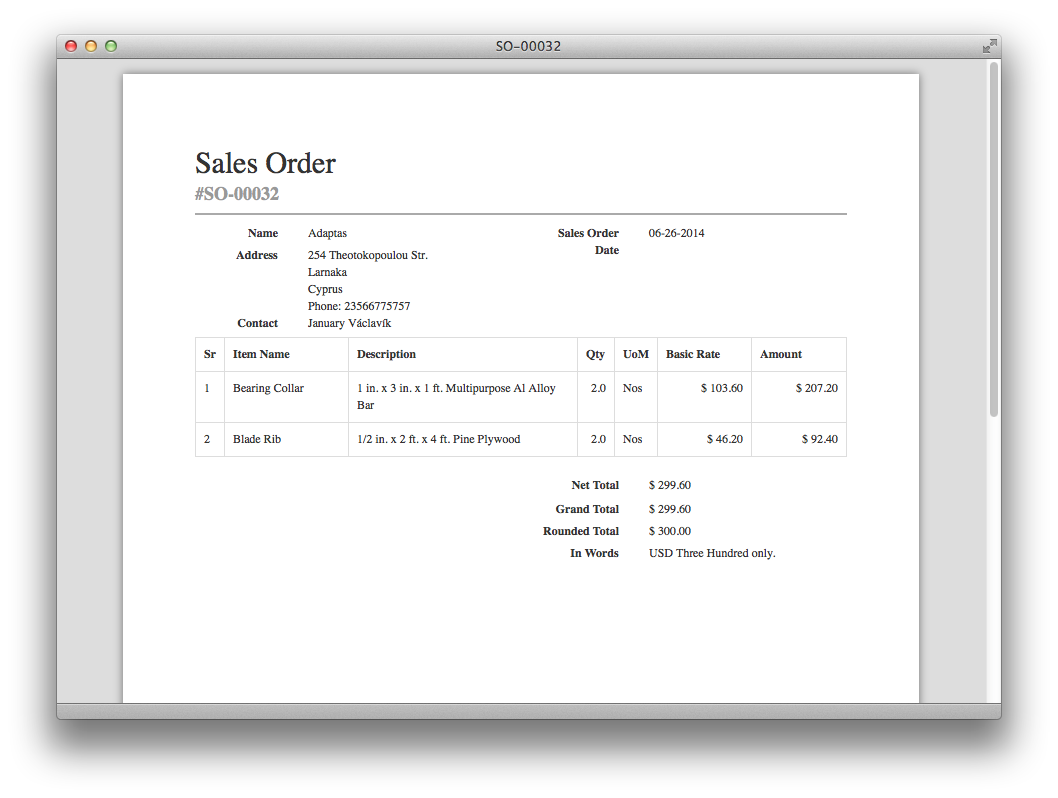
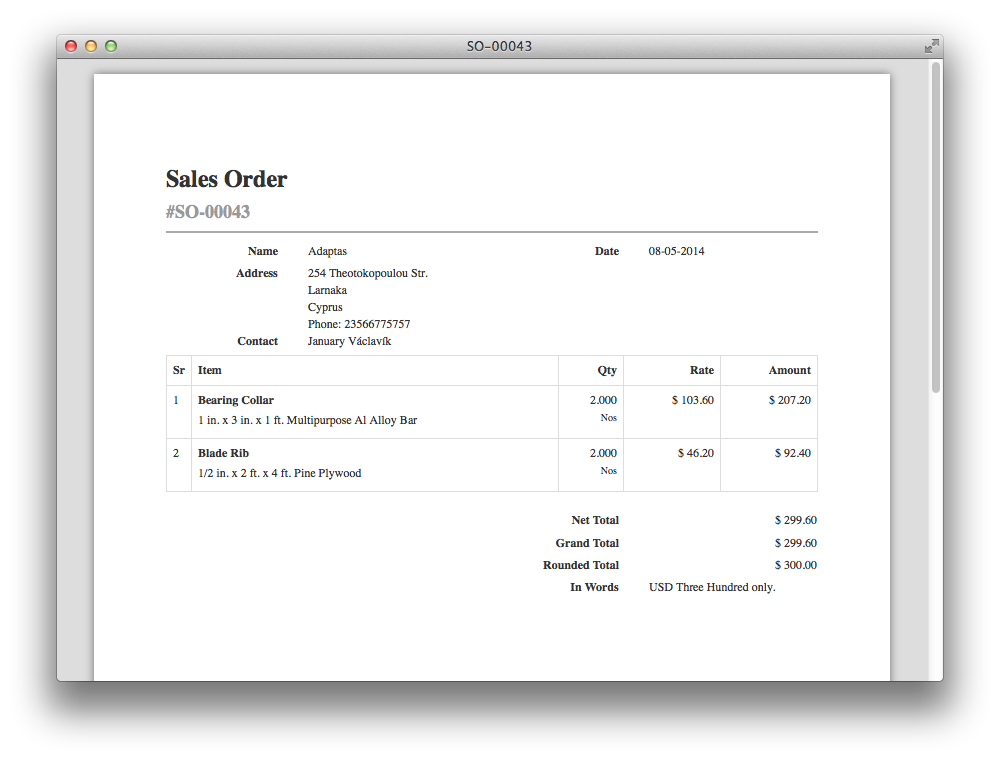
[print] Style = Monochrome

diff --git a/frappe/templates/styles/standard.css b/frappe/templates/styles/standard.css
@@ -1,4 +1,87 @@
-{% include "public/css/print.css" %}
+@import url(https://fonts.googleapis.com/css?family=Noto+Sans:400,700);
+
+@media screen {
+	.print-format-gutter {
+		background-color: #ddd;
+		padding: 15px 0px;
+	}
+	.print-format {
+		background-color: white;
+		box-shadow: 0px 0px 9px rgba(0,0,0,0.5);
+		max-width: 8.3in;
+		min-height: 11.69in;
+		padding: 0.75in;
+	    margin: auto;
+	}
+
+	.page-break {
+		padding: 30px 0px;
+		border-bottom: 1px dashed #888;
+	}
+
+	.page-break:first-child {
+		padding-top: 0px;
+	}
+
+	.page-break:last-child {
+		border-bottom: 0px;
+	}
+}
+
+@media print {
+	.print-format p {
+		margin-left: 1px;
+		margin-right: 1px;
+	}
+}
+
+.print-format {
+	font-size: 9pt;
+	font-family: 'Noto Sans', sans-serif;
+	-webkit-print-color-adjust:exact;
+}
+
+.page-break {
+	page-break-after: always;
+}
+
+.print-heading {
+	border-bottom: 2px solid #aaa;
+	margin-bottom: 10px;
+}
+
+.print-heading h2 {
+	margin: 0px;
+}
+.print-heading h4 {
+	margin-top: 5px;
+}
+
+table.no-border, table.no-border td {
+	border: 0px;
+}
+
+.print-format label {
+	/* wkhtmltopdf breaks label into multiple lines when it is inline-block */
+	display: block;
+}
+
+.print-format img {
+	max-width: 100%;
+}
+
+.print-format table td > .primary:first-child {
+	font-weight: bold;
+}
+
+.print-format td, .print-format th {
+	vertical-align: top !important;
+	padding: 6px !important;
+}
+
+.print-format p {
+	margin: 3px 0px 3px;
+}
 
 .print-format {
 	font-size: {{ print_settings.font_size|flt or 9 }}pt;

diff --git a/frappe/templates/styles/monochrome.css b/frappe/templates/styles/monochrome.css
@@ -1,0 +1,26 @@
+.print-format * {
+	color: #000 !important;
+}
+
+.print-format .alert {
+	background-color: inherit;
+	border: 1px dashed #333;
+}
+
+.print-format .table-bordered,
+.print-format .table-bordered > thead > tr > th,
+.print-format .table-bordered > tbody > tr > th,
+.print-format .table-bordered > tfoot > tr > th,
+.print-format .table-bordered > thead > tr > td,
+.print-format .table-bordered > tbody > tr > td,
+.print-format .table-bordered > tfoot > tr > td {
+	border: 1px solid #333;
+}
+
+.print-format hr {
+	border-top: 1px solid #333;
+}
+
+.print-heading {
+	border-bottom: 2px solid #333;
+}

diff --git a/frappe/public/html/print_template.html b/frappe/public/html/print_template.html
@@ -8,7 +8,9 @@
     <meta name="author" content="">
     <title>{%= title %}</title>
     <link href="{%= frappe.urllib.get_base_url() %}/assets/frappe/css/bootstrap.css" rel="stylesheet">
-	<link href="{%= frappe.urllib.get_base_url() %}/assets/frappe/css/print.css" rel="stylesheet" type="text/css">
+	<style>
+		{%= frappe.boot.print_css %}
+	</style>
   </head>
   <body>
 	  <div class="print-format-gutter">

diff --git a/frappe/templates/pages/print.py b/frappe/templates/pages/print.py
@@ -192,7 +192,7 @@ def get_print_style(style=None):
 	if not style:
 		style = print_settings.print_style or "Standard"
 
-	context = {"print_settings": print_settings}
+	context = {"print_settings": print_settings, "print_style": style}
 
 	css = frappe.get_template("templates/styles/standard.css").render(context)
 
